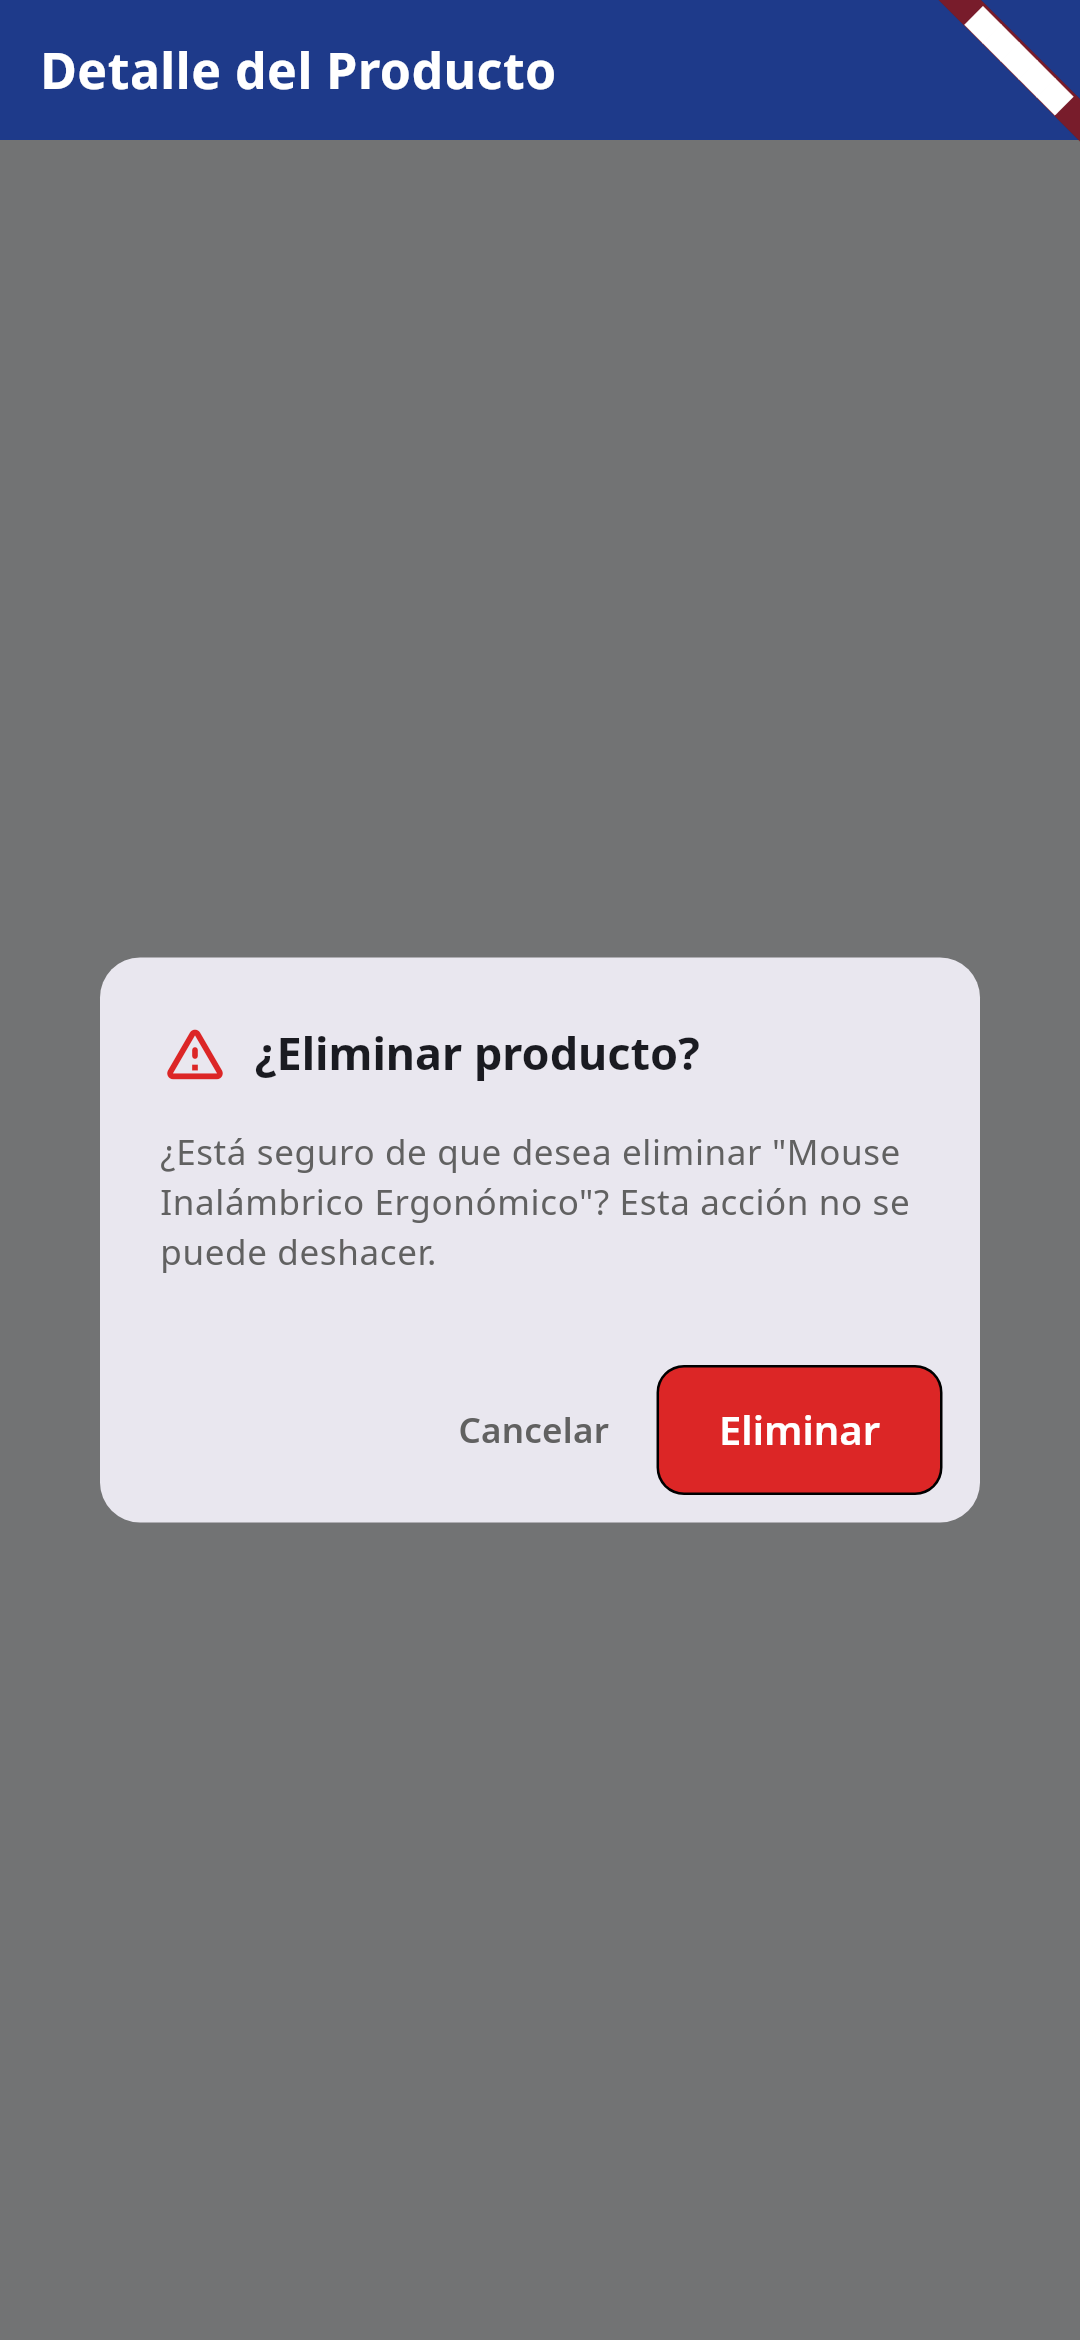
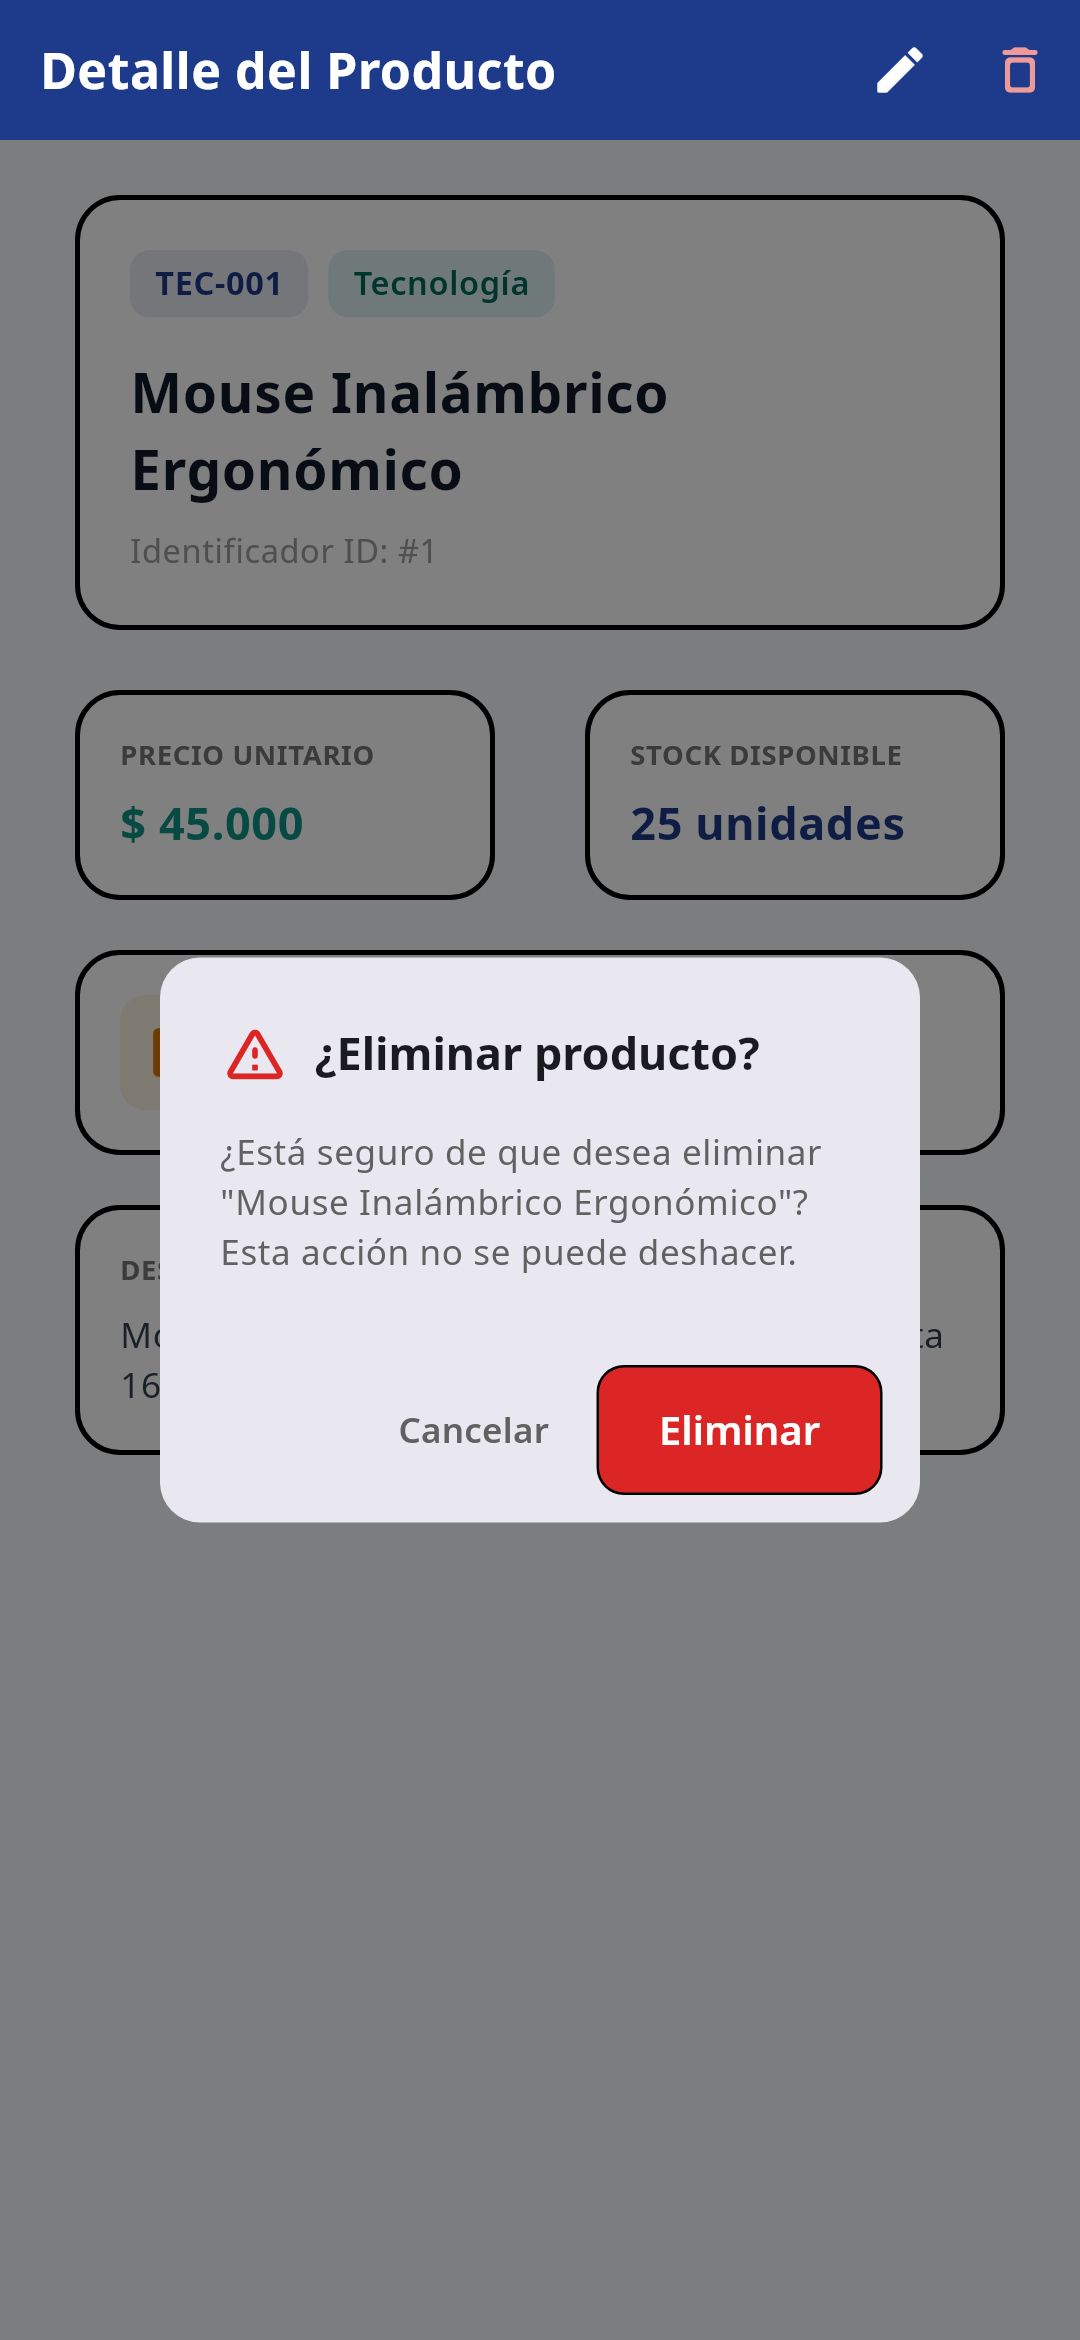
fix(docs): corregir captura 09 mostrando vista de detalle de fondo en dialogo de eliminacion

diff --git a/frontend/test/generate_screenshots_test.dart b/frontend/test/generate_screenshots_test.dart
@@ -1006,20 +1006,256 @@ void main() {
   // 09-confirmacion-eliminar.png
   testWidgets('09-confirmacion-eliminar', (WidgetTester tester) async {
     configurePhone(tester);
+    final p = productosBase[0];
     await tester.pumpWidget(
       MaterialApp(
+        debugShowCheckedModeBanner: false,
         theme: AppTheme.lightTheme,
         home: Scaffold(
-          appBar: AppBar(title: const Text('Detalle del Producto')),
-          body: const Stack(
+          appBar: AppBar(
+            title: const Text('Detalle del Producto'),
+            actions: [
+              IconButton(
+                icon: const Icon(Icons.edit_rounded),
+                onPressed: () {},
+              ),
+              IconButton(
+                icon: const Icon(Icons.delete_outline_rounded),
+                color: Colors.red.shade200,
+                onPressed: () {},
+              ),
+            ],
+          ),
+          body: Stack(
             children: [
-              Center(child: Text('Fondo detalle')),
-              ModalBarrier(color: Colors.black54, dismissible: false),
+              SingleChildScrollView(
+                padding: const EdgeInsets.all(16.0),
+                child: Column(
+                  crossAxisAlignment: CrossAxisAlignment.start,
+                  children: [
+                    Card(
+                      child: Padding(
+                        padding: const EdgeInsets.all(20.0),
+                        child: Column(
+                          crossAxisAlignment: CrossAxisAlignment.start,
+                          children: [
+                            Row(
+                              children: [
+                                Container(
+                                  padding: const EdgeInsets.symmetric(
+                                    horizontal: 10,
+                                    vertical: 4,
+                                  ),
+                                  decoration: BoxDecoration(
+                                    color: const Color(0xFF1E3A8A)
+                                        .withValues(alpha: 0.1),
+                                    borderRadius: BorderRadius.circular(8),
+                                  ),
+                                  child: Text(
+                                    p.codigo,
+                                    style: const TextStyle(
+                                      fontSize: 13,
+                                      fontWeight: FontWeight.bold,
+                                      color: Color(0xFF1E3A8A),
+                                    ),
+                                  ),
+                                ),
+                                const SizedBox(width: 8),
+                                Container(
+                                  padding: const EdgeInsets.symmetric(
+                                    horizontal: 10,
+                                    vertical: 4,
+                                  ),
+                                  decoration: BoxDecoration(
+                                    color: Colors.teal.shade50,
+                                    borderRadius: BorderRadius.circular(8),
+                                  ),
+                                  child: Text(
+                                    p.categoria,
+                                    style: TextStyle(
+                                      fontSize: 13,
+                                      fontWeight: FontWeight.w600,
+                                      color: Colors.teal.shade800,
+                                    ),
+                                  ),
+                                ),
+                              ],
+                            ),
+                            const SizedBox(height: 14),
+                            Text(
+                              p.nombre,
+                              style: const TextStyle(
+                                fontSize: 22,
+                                fontWeight: FontWeight.bold,
+                                color: Color(0xFF0F172A),
+                              ),
+                            ),
+                            const SizedBox(height: 8),
+                            Text(
+                              'Identificador ID: #${p.id}',
+                              style: TextStyle(
+                                fontSize: 13,
+                                color: Colors.grey.shade500,
+                              ),
+                            ),
+                          ],
+                        ),
+                      ),
+                    ),
+                    const SizedBox(height: 12),
+                    Row(
+                      children: [
+                        Expanded(
+                          child: Card(
+                            child: Padding(
+                              padding: const EdgeInsets.all(16.0),
+                              child: Column(
+                                crossAxisAlignment: CrossAxisAlignment.start,
+                                children: [
+                                  Text(
+                                    'PRECIO UNITARIO',
+                                    style: TextStyle(
+                                      fontSize: 11,
+                                      fontWeight: FontWeight.bold,
+                                      color: Colors.grey.shade600,
+                                    ),
+                                  ),
+                                  const SizedBox(height: 6),
+                                  Text(
+                                    p.precioFormateado,
+                                    style: const TextStyle(
+                                      fontSize: 18,
+                                      fontWeight: FontWeight.bold,
+                                      color: Color(0xFF0D9488),
+                                    ),
+                                  ),
+                                ],
+                              ),
+                            ),
+                          ),
+                        ),
+                        const SizedBox(width: 8),
+                        Expanded(
+                          child: Card(
+                            child: Padding(
+                              padding: const EdgeInsets.all(16.0),
+                              child: Column(
+                                crossAxisAlignment: CrossAxisAlignment.start,
+                                children: [
+                                  Text(
+                                    'STOCK DISPONIBLE',
+                                    style: TextStyle(
+                                      fontSize: 11,
+                                      fontWeight: FontWeight.bold,
+                                      color: Colors.grey.shade600,
+                                    ),
+                                  ),
+                                  const SizedBox(height: 6),
+                                  Text(
+                                    '${p.cantidad} unidades',
+                                    style: const TextStyle(
+                                      fontSize: 18,
+                                      fontWeight: FontWeight.bold,
+                                      color: Color(0xFF1E3A8A),
+                                    ),
+                                  ),
+                                ],
+                              ),
+                            ),
+                          ),
+                        ),
+                      ],
+                    ),
+                    const SizedBox(height: 8),
+                    Card(
+                      child: Padding(
+                        padding: const EdgeInsets.all(16.0),
+                        child: Row(
+                          children: [
+                            Container(
+                              padding: const EdgeInsets.all(10),
+                              decoration: BoxDecoration(
+                                color: const Color(0xFFF59E0B)
+                                    .withValues(alpha: 0.12),
+                                borderRadius: BorderRadius.circular(10),
+                              ),
+                              child: const Icon(
+                                Icons.calculate_rounded,
+                                color: Color(0xFFD97706),
+                                size: 26,
+                              ),
+                            ),
+                            const SizedBox(width: 14),
+                            Column(
+                              crossAxisAlignment: CrossAxisAlignment.start,
+                              children: [
+                                Text(
+                                  'VALOR TOTAL EN INVENTARIO',
+                                  style: TextStyle(
+                                    fontSize: 11,
+                                    fontWeight: FontWeight.bold,
+                                    color: Colors.grey.shade600,
+                                  ),
+                                ),
+                                const SizedBox(height: 4),
+                                Text(
+                                  p.valorTotalFormateado,
+                                  style: const TextStyle(
+                                    fontSize: 17,
+                                    fontWeight: FontWeight.bold,
+                                    color: Color(0xFF0F172A),
+                                  ),
+                                ),
+                              ],
+                            ),
+                          ],
+                        ),
+                      ),
+                    ),
+                    const SizedBox(height: 8),
+                    Card(
+                      child: Padding(
+                        padding: const EdgeInsets.all(16.0),
+                        child: Column(
+                          crossAxisAlignment: CrossAxisAlignment.start,
+                          children: [
+                            Text(
+                              'DESCRIPCIÓN TÉCNICA',
+                              style: TextStyle(
+                                fontSize: 11,
+                                fontWeight: FontWeight.bold,
+                                color: Colors.grey.shade600,
+                              ),
+                            ),
+                            const SizedBox(height: 8),
+                            Text(
+                              p.descripcion ?? '',
+                              style: const TextStyle(
+                                fontSize: 14,
+                                height: 1.4,
+                                color: Color(0xFF334155),
+                              ),
+                            ),
+                          ],
+                        ),
+                      ),
+                    ),
+                  ],
+                ),
+              ),
+              ModalBarrier(
+                color: Colors.black.withValues(alpha: 0.5),
+                dismissible: false,
+              ),
               Center(
-                child: ConfirmDialog(
-                  titulo: '¿Eliminar producto?',
-                  mensaje: '¿Está seguro de que desea eliminar "Mouse Inalámbrico Ergonómico"? Esta acción no se puede deshacer.',
-                  textoConfirmar: 'Eliminar',
+                child: Padding(
+                  padding: const EdgeInsets.symmetric(horizontal: 24.0),
+                  child: ConfirmDialog(
+                    titulo: '¿Eliminar producto?',
+                    mensaje:
+                        '¿Está seguro de que desea eliminar "${p.nombre}"? Esta acción no se puede deshacer.',
+                    textoConfirmar: 'Eliminar',
+                  ),
                 ),
               ),
             ],
